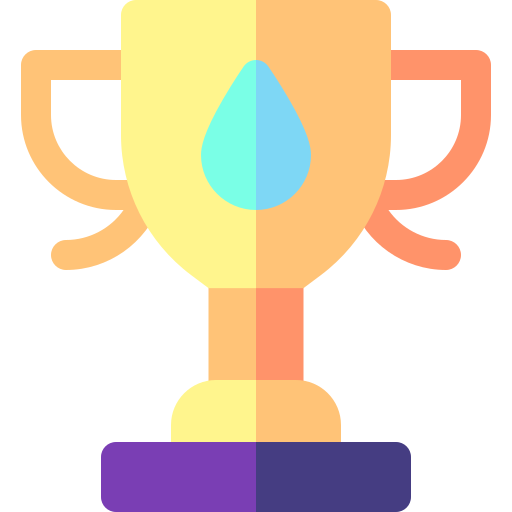
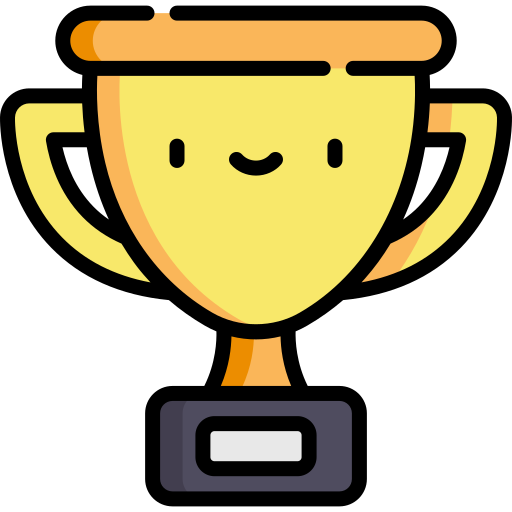
резултати

diff --git a/wwwroot/css/QuizResult/QuizResultStyles.css b/wwwroot/css/QuizResult/QuizResultStyles.css
@@ -32,3 +32,10 @@
     background: #0A3F0A;
     background: #51A051;
 }
+.test-over-heading-container {
+    text-align: center;
+}
+.award-image-container, .test-result-button-container {
+    display: flex;
+    justify-content: center;
+}
